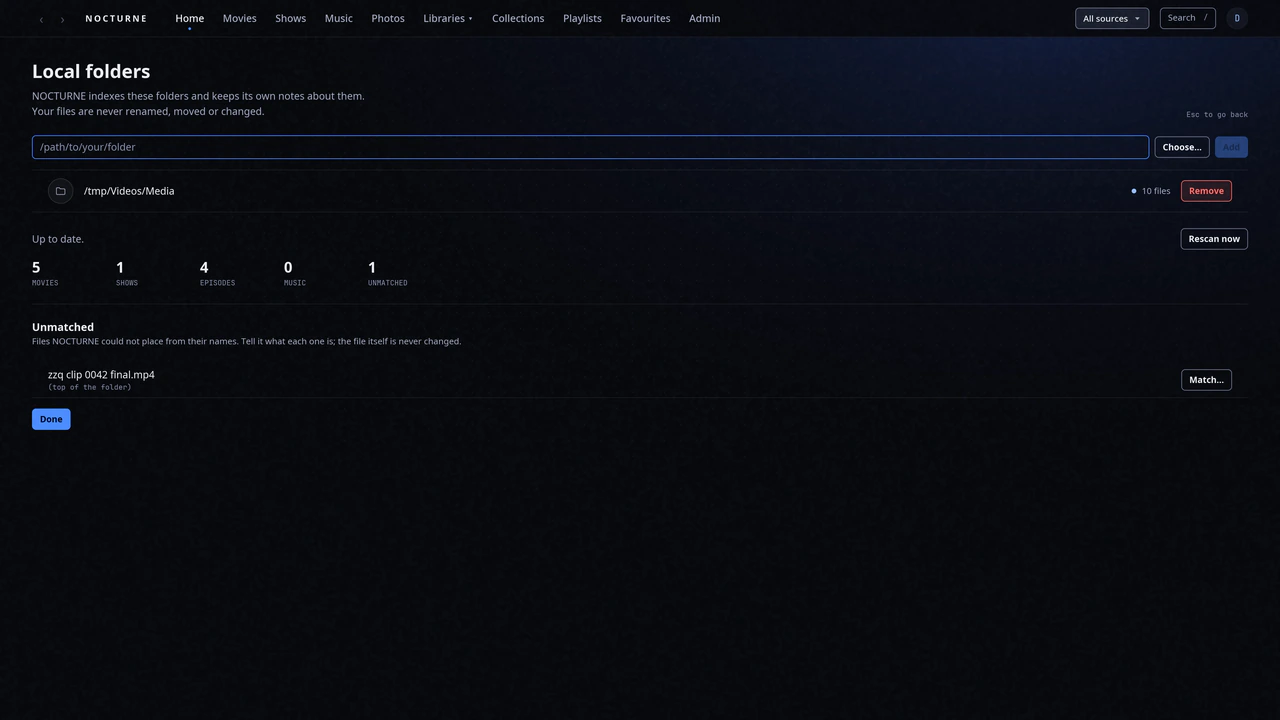
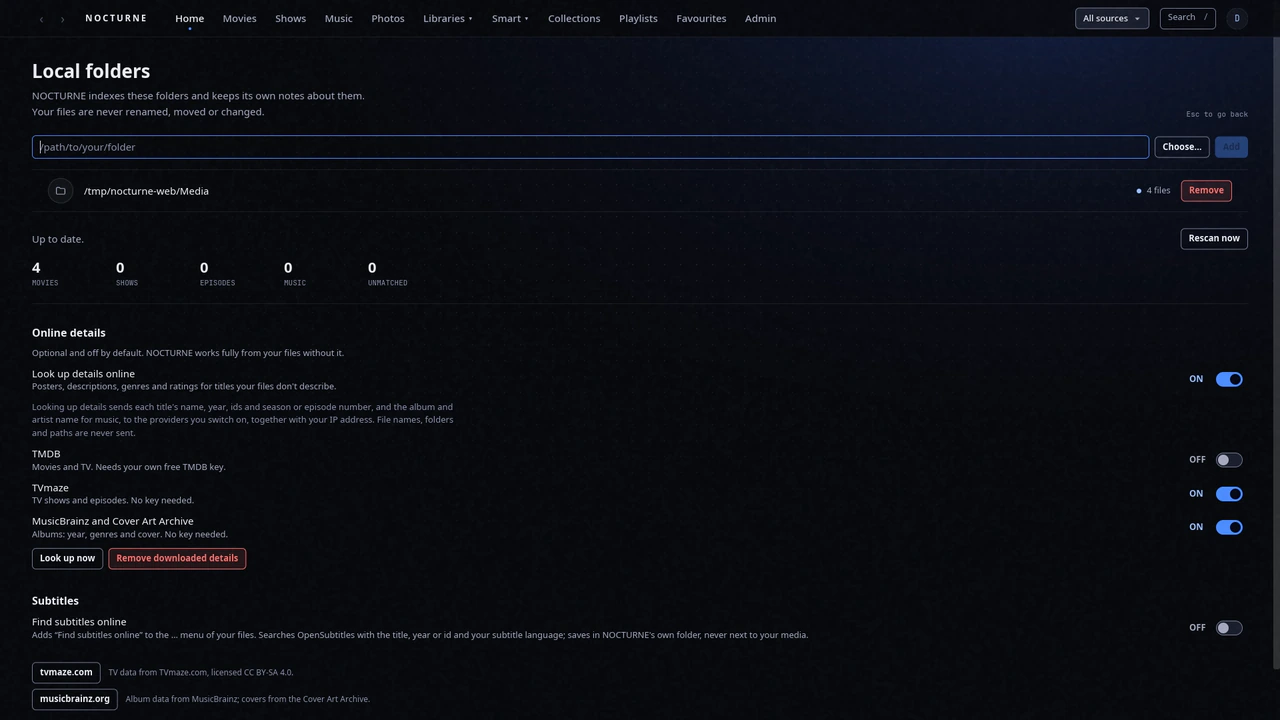
Website: 0.4.0 release page with captures of the 0.4 screens
Couch mode Home in Living room, a smart collection grid and the Smart
menu in One library, the Downloads panel with a transfer in progress,
the HDR question beside the loading overlay in Playback, the Trakt
dialog (not signed in) in Across services, and Local folders with the
online-details credits. All from two throwaway demo servers and a
generated local folder, 1920x1080 window captures through the debug
hooks. VERSION 0.4.0 retires the Coming in 0.4 marks; the tests now pin
the 0.3 marks to an explicit 0.3.0 build.

diff --git a/website/src/lib/components/Tour.svelte b/website/src/lib/components/Tour.svelte
@@ -46,10 +46,11 @@
   const right = "(min-width: 1240px) 467px, (min-width: 768px) calc((100vw - 72px) * 0.4), calc(100vw - 40px)";
   const two = "(min-width: 1560px) 748px, (min-width: 768px) calc(50vw - 32px), calc(100vw - 40px)";
   const framed = "(min-width: 1360px) 1320px, calc(100vw - 40px)";
+  const narrow = "(min-width: 800px) 760px, calc(100vw - 40px)";
 </script>
 
 <!-- Nine scenes. The first is the story (many sources, one library); the others are large stills from the app with
-     their copy set as a subtitle. Living room and Across services are copy only until their 0.4 captures. -->
+     their copy set as a subtitle. 0.4 stills are 1920x1080 window captures (see README). -->
 <div id="tour">
   <section class="pb-[clamp(110px,14vw,220px)]" aria-labelledby="s0">
     <header class="reveal wrap mb-[clamp(32px,4vw,56px)] text-center"><span class="role">Scene 1</span><h2 id="s0" class="scene-title">One library</h2><Next class="mt-5 ml-0" /></header>
@@ -81,8 +82,13 @@
     <div class="reveal mx-auto mt-[clamp(56px,7vw,96px)] w-[min(1320px,100%-40px)]"><Shot name="first-run" sizes={framed} /></div>
     <div class="stagger mx-auto mt-6 grid w-[min(1520px,100%-40px)] gap-6 md:grid-cols-2">
       <figure class="m-0"><Shot name="sources" sizes={two} /><figcaption class="mt-4 text-sm text-ink-2">Settings, Sources: the order is the priority when a title is in more than one place.</figcaption></figure>
-      <figure class="m-0"><Shot name="local-folders" sizes={two} /><figcaption class="mt-4 text-sm text-ink-2">Local folders: indexed in place, with anything it cannot place left for you to match.</figcaption></figure>
+      <figure class="m-0"><Shot name="local-folders" sizes={two} /><figcaption class="mt-4 text-sm text-ink-2">Local folders: indexed in place. Online details are optional, per provider, with their credits on the page.</figcaption></figure>
     </div>
+    <div class="stagger wrap mt-[clamp(56px,7vw,96px)] grid gap-x-8 gap-y-12 md:grid-cols-[minmax(0,3fr)_minmax(0,2fr)] md:items-end">
+      <figure class="m-0"><Shot name="smart" sizes={left} /><figcaption class="mt-4 text-sm text-ink-2">A smart collection: a saved rule over every source, kept on this computer.</figcaption></figure>
+      <figure class="m-0"><Shot name="smart-menu-crop" sizes={right} /><figcaption class="mt-4 text-sm text-ink-2">Five starters in the header's Smart menu; make your own with a live match count.</figcaption></figure>
+    </div>
+    <figure class="reveal mx-auto mt-[clamp(56px,7vw,96px)] mb-0 w-[min(760px,100%-40px)]"><Shot name="downloads-crop" sizes={narrow} /><figcaption class="mt-4 text-center text-sm text-ink-2">Download to this computer: the copy lands in your local library as a second source. Plain reads, resumable, one at a time.</figcaption></figure>
     <div class="wrap mt-14">
       <ul class="tick stagger gap-x-12 sm:grid-cols-2 lg:grid-cols-3">{#each sources.map(tick) as [t, v]}<li>{t}{#if v} <Next {v} />{/if}</li>{/each}</ul>
       <p class="m-0 mt-10 max-w-[80ch] text-sm text-ink-3">Online details come from <a href="https://www.themoviedb.org" rel="noopener">TMDB</a>, <a href="https://www.tvmaze.com" rel="noopener">TVmaze</a>, MusicBrainz and the Cover Art Archive. This product uses the TMDB API but is not endorsed or certified by TMDB. TV data from TVmaze.com, licensed CC BY-SA 4.0.</p>
@@ -112,8 +118,10 @@
     <header class="reveal wrap mb-[clamp(32px,4vw,56px)] text-center"><span class="role">Scene 4</span><h2 id="s3" class="scene-title">Playback</h2></header>
     <Shot name="playback" bleed sizes={bleed} class="letterbox" />
     <p class="subtitle">The film plays inside the window, whether it streams from a server or sits on your disk. libmpv renders with hardware decoding into a Wayland subsurface, and the controls are drawn over the picture.</p>
-    <div class="reveal mx-auto mt-[clamp(56px,7vw,96px)] w-[min(1320px,100%-40px)]"><Shot name="loading" sizes={framed} /></div>
-    <p class="subtitle">While it loads, the film's backdrop fills the screen and its title fills with light as the buffer grows.</p>
+    <div class="stagger mx-auto mt-[clamp(56px,7vw,96px)] grid w-[min(1520px,100%-40px)] gap-6 md:grid-cols-2">
+      <figure class="m-0"><Shot name="loading" sizes={two} /><figcaption class="mt-4 text-sm text-ink-2">While it loads, the film's backdrop fills the screen and its title fills with light as the buffer grows.</figcaption></figure>
+      <figure class="m-0"><Shot name="hdr-crop" sizes={two} /><figcaption class="mt-4 text-sm text-ink-2">An HDR film asks: SDR in the window, or the HDR pop-out window. Real HDR needs an HDR display and mpv 0.42 or newer.</figcaption></figure>
+    </div>
     <div class="wrap mt-14">
       <ul class="tick stagger gap-x-12 sm:grid-cols-2 lg:grid-cols-3">{#each player.map(tick) as [t, v]}<li>{t}{#if v} <Next {v} />{/if}</li>{/each}</ul>
     </div>
@@ -121,6 +129,7 @@
 
   <section class="pb-[clamp(110px,14vw,220px)]" aria-labelledby="s7">
     <header class="reveal wrap mb-[clamp(32px,4vw,56px)] text-center"><span class="role">Scene 5</span><h2 id="s7" class="scene-title">Living room</h2><Next v="0.4.0" class="mt-5 ml-0" /></header>
+    <div class="reveal mx-auto w-[min(1320px,100%-40px)]"><Shot name="couch" sizes={framed} /></div>
     <p class="subtitle">Couch mode turns NOCTURNE into a ten-foot screen: a larger layout, a thicker focus ring and a hint bar, driven by a gamepad, a remote or the keyboard. Set it On, or Automatic to switch it on when a gamepad connects or on a large display.</p>
     <div class="wrap mt-14">
       <ul class="tick stagger gap-x-12 sm:grid-cols-2">{#each couch as c}<li>{c}</li>{/each}</ul>
@@ -136,6 +145,7 @@
         <div class="rule pt-5"><dt class="role">{t}</dt><dd class="m-0 mt-3 text-ink-2">{d}{#if credit}<span class="mt-3 block text-sm text-ink-3">{credit}</span>{/if}</dd></div>
       {/each}
     </dl>
+    <figure class="reveal mx-auto mt-14 mb-0 w-[min(760px,100%-40px)]"><Shot name="trakt-crop" sizes={narrow} /><figcaption class="mt-4 text-center text-sm text-ink-2">Trakt, before you connect it: your own Trakt app and a sign-in in your browser. NOCTURNE ships no Trakt credentials.</figcaption></figure>
   </section>
 
   <section class="pb-[clamp(110px,14vw,220px)]" aria-labelledby="s4">

diff --git a/website/src/lib/site.js b/website/src/lib/site.js
@@ -60,7 +60,13 @@ const ALT = {
   "alternates-crop": "Versions and sources: one film on three sources, Living room, Local and Study, with quality, and Always prefer this source",
   "first-run": "Setup, step 2 of 5: Where is your media? Local folders, A Jellyfin server, or Both",
   sources: "Settings, Sources: This computer with one folder, and the servers Living room and Study, all online",
-  "local-folders": "Local folders: one indexed folder, counts of movies, shows and episodes, and one unmatched file to place by hand",
+  "local-folders": "Local folders: one indexed folder, Online details switched on for TVmaze and MusicBrainz with TMDB off, and the providers' credits",
+  couch: "Couch mode: Home in a larger layout with a thick focus ring on Play and a hint bar for the gamepad buttons",
+  smart: "The smart collection Added this week: a poster grid over every source, each card marked Local, Living room or Study",
+  "smart-menu-crop": "The Smart menu in the header: Unwatched 4K movies, Added this week, Unwatched shows, Continue watching, Top rated not watched, Manage smart collections",
+  "downloads-crop": "The Downloads panel: Northbound Lights downloading, 50 MB of 417 MB, with Pause and Cancel",
+  "hdr-crop": "The HDR question in the player: Play here in SDR, or Open in HDR pop-out window, with Remember my choice",
+  "trakt-crop": "The Trakt dialog, not signed in: what is sent, an empty Client ID field, Sign in with Trakt and Create a Trakt app",
 };
 // Image props for one screenshot: src (largest), srcset, intrinsic size and alt, so layout never shifts.
 export function shot(key) {

diff --git a/website/scripts/make-assets.py b/website/scripts/make-assets.py
@@ -18,7 +18,7 @@ WIDTHS = (640, 1280, 1920, 2560, 3840)
 # The full-bleed stills are up to 1680 css px (3360 px at 2x), so they keep the native 3840.
 MAX_W = {"01-home": 3840, "06-playback": 3840}
 DEFAULT_MAX = 2560
-SKIP_FULL = {"picker", "05-search", "03-movie-detail"}  # only their close-ups are used on the page
+SKIP_FULL = {"picker", "05-search", "03-movie-detail", "smart-menu", "downloads", "hdr", "trakt"}  # close-ups only
 
 # Close-ups, as fractions (x0, y0, x1, y1) of the capture so they do not depend on its resolution, plus the widest
 # variant. Framed on the 3840x2160 captures; check by eye after a recapture (open sized/*-crop-*.webp).
@@ -35,6 +35,15 @@ CROPS = {
     "controls-crop": ("06-playback", (0.0, 0.905, 1.0, 0.994), 1280),
     # the Versions and sources picker on the movie detail page, 16:9 like the series still beside it
     "alternates-crop": ("03-movie-detail", (0.30, 0.30, 0.70, 0.70), 1920),
+    # 0.4 captures are 1920x1080 (window capture at scale 1, see README); their close-ups are framed on that size.
+    # the header's Smart menu with the five starter collections
+    "smart-menu-crop": ("smart-menu", (0.31, 0.0, 0.65, 0.34), 1280),
+    # the Downloads panel with one transfer in progress, 16:9
+    "downloads-crop": ("downloads", (0.30, 0.30, 0.70, 0.70), 1280),
+    # the HDR question in the player, 16:9
+    "hdr-crop": ("hdr", (0.30, 0.30, 0.70, 0.70), 1280),
+    # the Trakt dialog over Settings (not signed in)
+    "trakt-crop": ("trakt", (0.33, 0.25, 0.67, 0.75), 1280),
 }
 
 

diff --git a/website/README.md b/website/README.md
@@ -11,7 +11,7 @@ Static site for `nocturne.ifsvivek.in`: SvelteKit (Svelte 5, `adapter-static`, e
 
 ## Version marks
 
-The page can describe the next version while `VERSION` still names the one you can download. With 0.3.0 released the 0.3 marks are retired. The 0.4 copy (Living room and Across services scenes, new player and library items, .deb and .rpm on Install and `/repo`) carries "Coming in 0.4" until `VERSION` becomes 0.4.0; the .deb / .rpm file names are built in `site.js` (`DEB`, `RPM`, `asset()`) and must be checked against the release assets. Any page that names TMDB, TVmaze or Trakt must carry their credit sentences; a test enforces it. Every claim that was new in 0.3 carries a "Coming in 0.3" mark (`Next.svelte`, `<Next v="0.3.0" />`, or a version in the copy arrays of Tour, Safety, Install, Faq and How), and the interface credit names the toolkit of the downloadable version (`UI` in `site.js`: GPUI before 0.3.0, Iced from it). There is no extra config value: `shipped(v)` compares `VERSION` to the feature's version, so bumping `VERSION` at release removes every mark for it, and `NOCTURNE_VERSION=0.2.0 npm run build` shows the marked page. `npm test` builds that variant too and checks that the marks appear there and nowhere in the current build.
+The page can describe the next version while `VERSION` still names the one you can download. With 0.3.0 and 0.4.0 released, the 0.3 and 0.4 marks are retired (the tests still build 0.2.0 and 0.3.0 variants to check them). the .deb / .rpm file names are built in `site.js` (`DEB`, `RPM`, `asset()`) and must be checked against the release assets. Any page that names TMDB, TVmaze or Trakt must carry their credit sentences; a test enforces it. Every claim that was new in 0.3 carries a "Coming in 0.3" mark (`Next.svelte`, `<Next v="0.3.0" />`, or a version in the copy arrays of Tour, Safety, Install, Faq and How), and the interface credit names the toolkit of the downloadable version (`UI` in `site.js`: GPUI before 0.3.0, Iced from it). There is no extra config value: `shipped(v)` compares `VERSION` to the feature's version, so bumping `VERSION` at release removes every mark for it, and `NOCTURNE_VERSION=0.2.0 npm run build` shows the marked page. `npm test` builds that variant too and checks that the marks appear there and nowhere in the current build.
 
 ## RELEASED flag
 
@@ -21,7 +21,7 @@ The page can describe the next version while `VERSION` still names the one you c
 
 Full-size captures live in `src/lib/screens/*.webp`: 3840x2160 (16:9, scale-2 fullscreen), lossy WebP q97, `NN-name` mapping to the keys in `src/lib/site.js` (`shot("home")`, alt text there). They are sources only and are not bundled. `python3 scripts/make-assets.py` (needs Pillow; uses ImageMagick `magick` for sharp-YUV encoding when present) rebuilds `src/lib/screens/sized/NAME-W.webp` at 640/1280/1920/2560 px and the native 3840 (never upscaled), WebP q92 method 6. Widths are capped by slot: home and playback (full-bleed, up to 1680 css px) go to 3840, the framed stills to 2560, close-ups to what their slot needs. Close-ups (search palette, the server-changes setting with its OFF switch, the "Who's watching?" tiles, the player video and control bar, the Versions and sources picker) are cut from the captures with boxes given as fractions in `CROPS`, so they survive a resolution change; look at them after a recapture. The script also rebuilds `static/og.jpg` (1200x630, drawn at 2x, q90, about 75 kB so WhatsApp-style 300 kB limits are met). `picker.webp`, `05-search.webp` and `03-movie-detail.webp` are only used through their close-ups, so no full-frame variants are made. The source filter is the All sources button in the header; it shows in the home and library stills and has no close-up of its own.
 
-The captures are from the 0.3 (Iced) build: `09-first-run` (setup, Where is your media?), `10-sources`, `11-local-folders` (One library) and `12-loading` (the video loading overlay, in Playback and the OG image) joined the earlier set.
+0.4 adds `13-couch` (Living room), `14-smart` (One library) and the close-up sources `smart-menu`, `downloads`, `hdr` and `trakt`, and replaces `11-local-folders` (now with the online-details credits). They are **1920x1080** window captures (`NOCTURNE_SNAP`) of a debug build driven only by the `NOCTURNE_KEYS` / `NOCTURNE_PAD` / `NOCTURNE_PREVIEW*` hooks, floating at 1920x1080 on a hidden workspace (render-unfocused, so it redraws) of a scale-1 display, against two throwaway demo servers and a generated local folder; there is no size or scale knob for 2x yet, so they are half the resolution of the 0.3 set. The 0.3 "Versions and sources" close-up stays (same dialog in 0.4, sharper). The 0.3 captures are from the 0.3 (Iced) build: `09-first-run` (setup, Where is your media?), `10-sources`, `11-local-folders` (One library) and `12-loading` (the video loading overlay, in Playback and the OG image) joined the earlier set.
 
 AVIF was measured against WebP q92 (3840 px: playback 879 vs 934 kB, home 286 vs 329 kB, at equal or lower PSNR and softer UI text) and not adopted: under 15 percent smaller does not justify a `<picture>` fallback. The opening still loads eagerly with `fetchpriority=high`; all others are lazy, every `<img>` has width and height, and `sizes` in `Tour.svelte` mirror the real slot widths.
 
